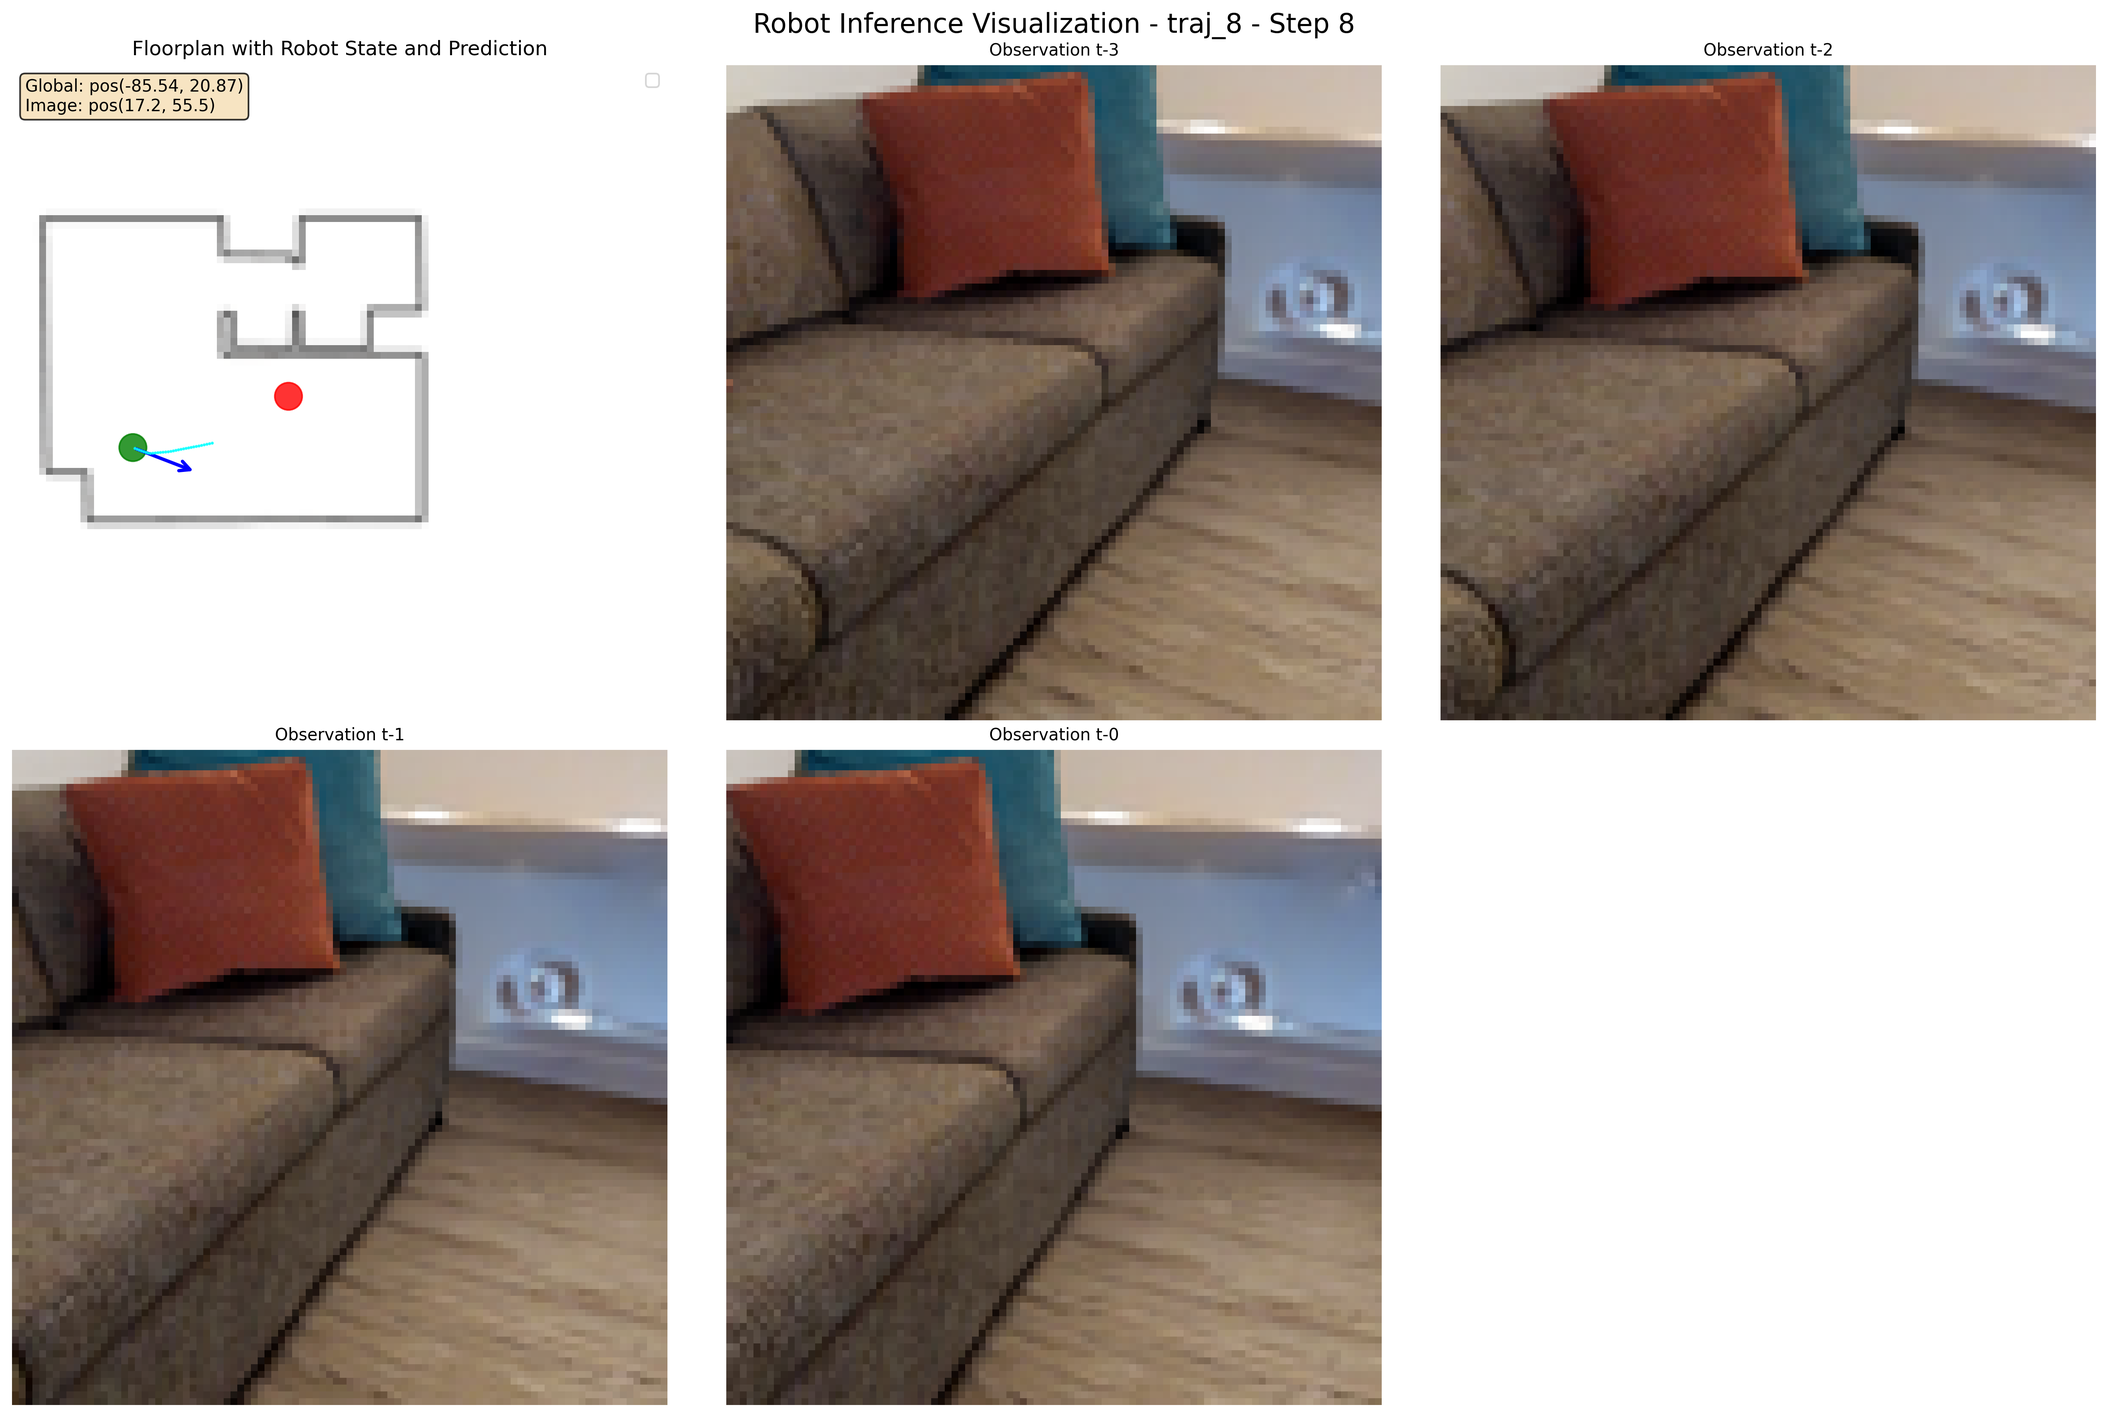
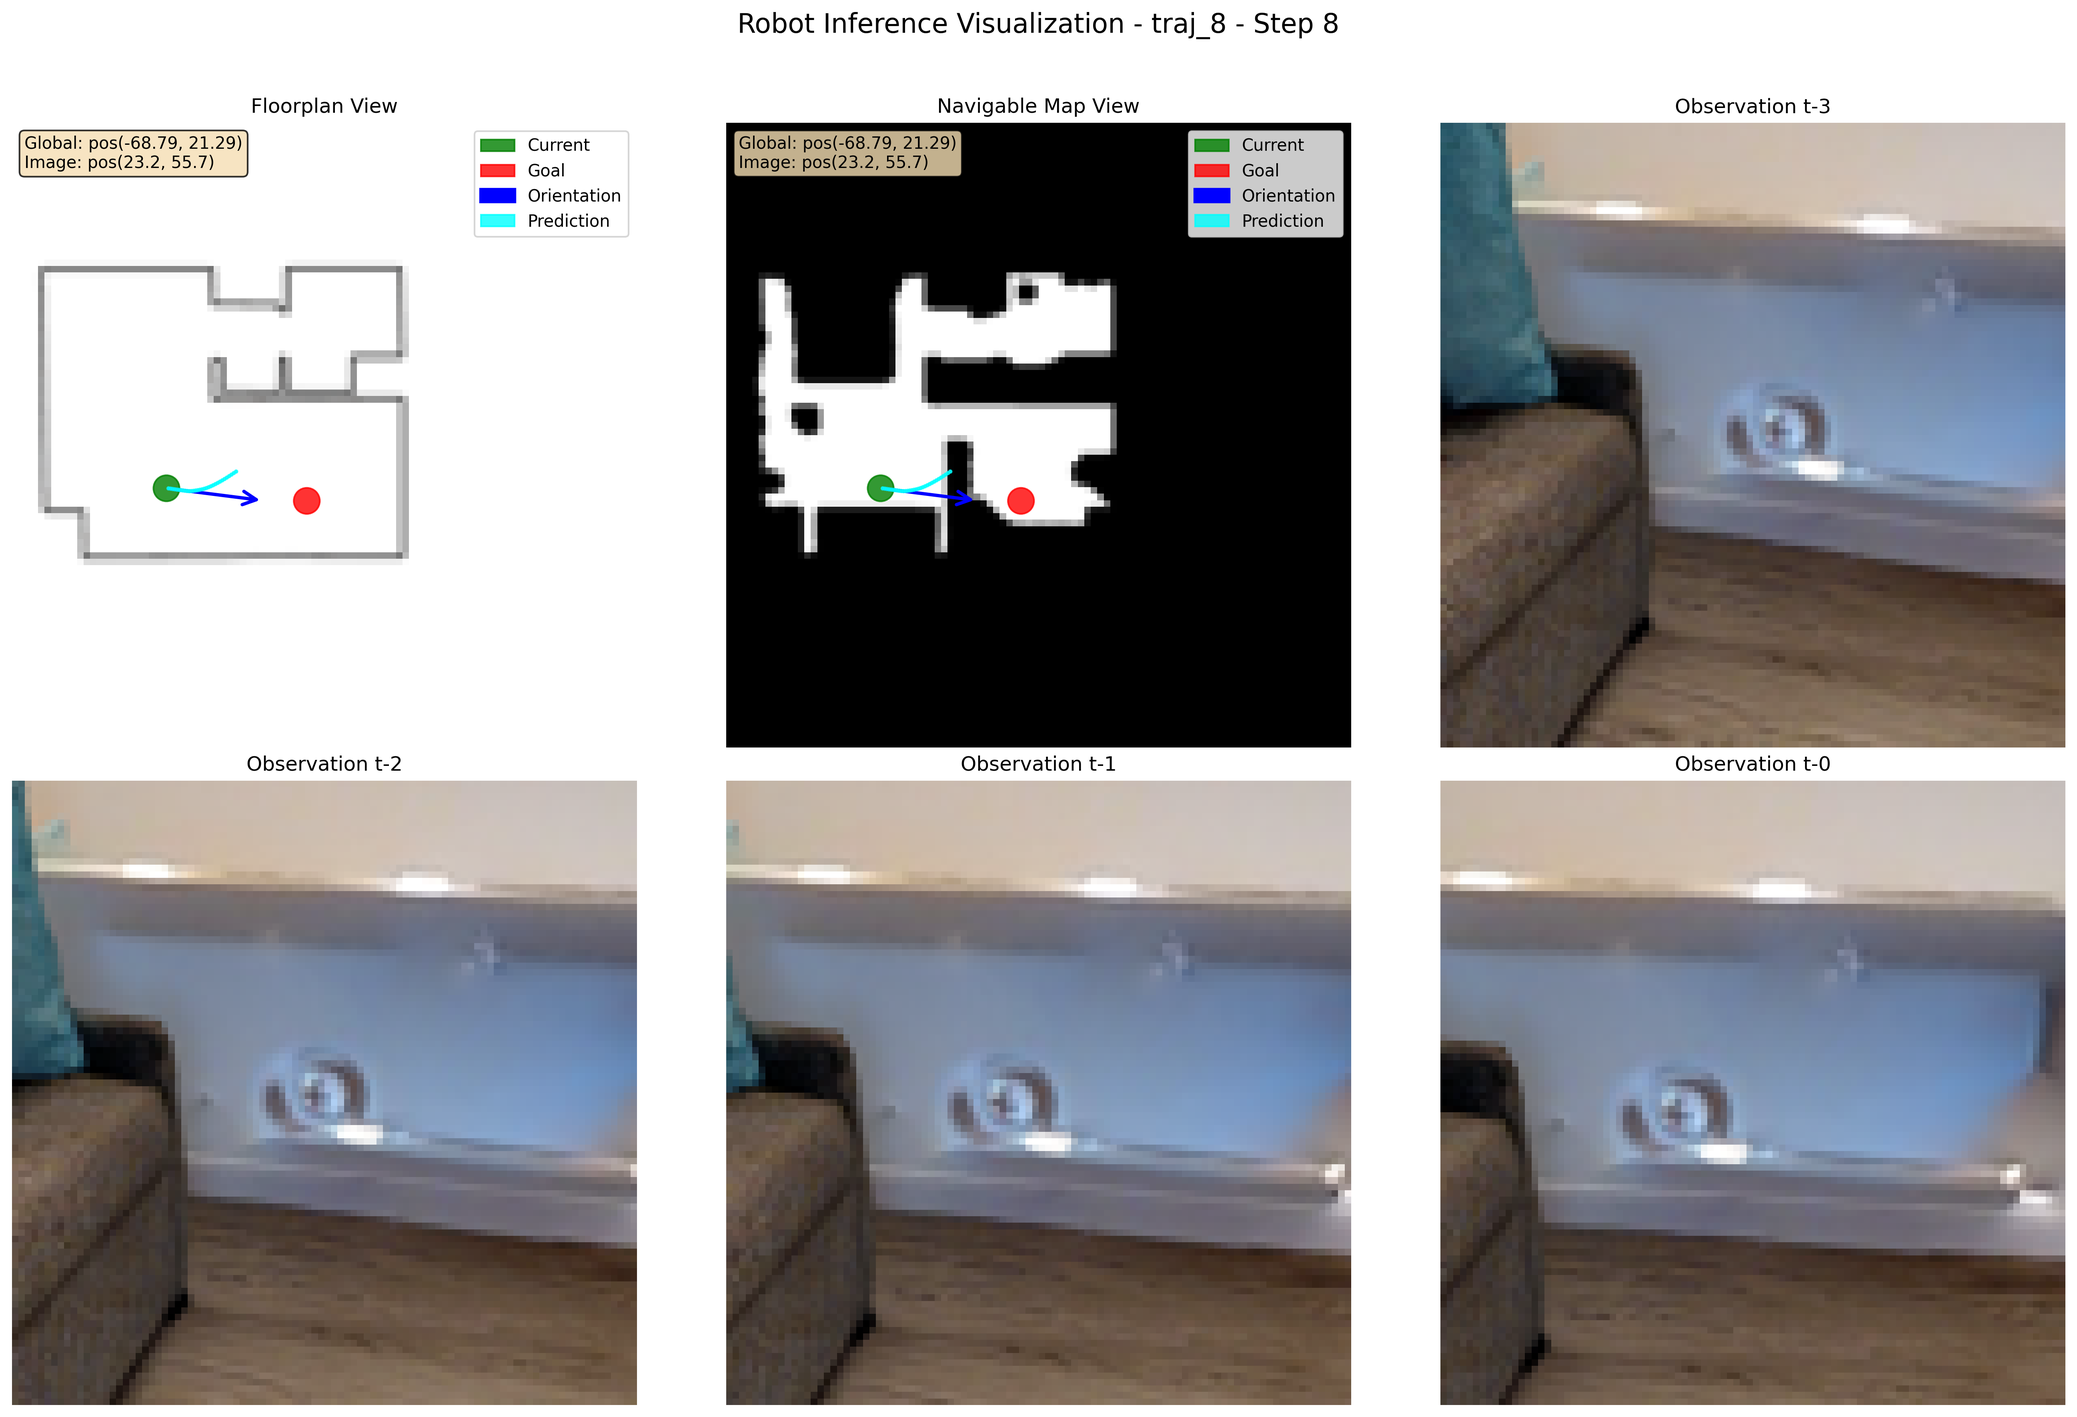
visualize navigable map

diff --git a/test/test_utils.py b/test/test_utils.py
@@ -607,159 +607,172 @@ def visualize_diffusion_action_distribution(
     fig.tight_layout()
     fig.canvas.draw()
     fig.canvas.flush_events()
+import torch
+import numpy as np
+import matplotlib.pyplot as plt
+from matplotlib.patches import Circle, FancyArrowPatch
 
-def visualize_robot_inference_with_coords(cur_pos, goal_pos, cur_ori, cur_pos_resized, 
-                                         goal_pos_resized, cur_ori_resized, floorplan_image, 
-                                         obs_image, predicted_action, trajectory_name, time_step, 
-                                         to_global_coords_func, save_path=None, show_obs=True, cur_shortest_path=None, floor_shapes_ori=None, scene_name=None, image_size=None):
+# 我将你的 transform_trajectory_to_image_coords 函数放在前面，以便整个代码块可以直接运行
+def transform_trajectory_to_image_coords(trajectory_global, ori_size, image_resize_size):
     """
-    可视化机器人推理过程（使用你的坐标转换函数）
+    将全局坐标的轨迹点转换到图像坐标
     
     Args:
-        cur_pos: 当前位置 (全局坐标)
-        goal_pos: 目标位置 (全局坐标)
-        cur_ori: 当前朝向 (全局坐标)
-        cur_pos_resized: 当前位置 (图像坐标)
-        goal_pos_resized: 目标位置 (图像坐标)
-        cur_ori_resized: 当前朝向 (图像坐标)
-        floorplan_image: 地图图像
-        obs_image: 观测图像
-        predicted_action: 预测的动作 (局部坐标)
-        trajectory_name: 轨迹名称
-        time_step: 时间步
-        to_global_coords_func: 你的坐标转换函数
-        save_path: 保存路径
-        show_obs: 是否显示观测图像
+        trajectory_global (np.ndarray): 全局坐标的轨迹点 [N, 2]
+        ori_size (float): 原始图像尺寸
+        image_resize_size (Tuple[int, int]): 调整后的图像尺寸 [width, height]
+    
+    Returns:
+        np.ndarray: 图像坐标的轨迹点 [N, 2]
     """
+    w0 = h0 = ori_size
+    # 第一步：全局坐标转换到原始图像像素坐标
+    trajectory_pixel = trajectory_global * 100 + np.array([w0 / 2, h0 / 2])
+    # 第二步：缩放到调整后的图像尺寸
+    trajectory_resized = trajectory_pixel * image_resize_size[0] / w0
+    return trajectory_resized
+
+def visualize_robot_inference_with_coords(cur_pos, goal_pos, cur_ori, cur_pos_resized, 
+                                        goal_pos_resized, cur_ori_resized, floorplan_image, 
+                                        navigable_map_image=None,
+                                        obs_image=None, predicted_action=None, trajectory_name=None, time_step=None, 
+                                        save_path=None, show_obs=True, floor_shapes_ori=None, 
+                                        scene_id=None, scene_floor=None, image_size=None):
+    """
+    可视化机器人推理过程，可同时显示 floorplan 和 navigable map。
+    """
+    scene_name = f"{scene_id}_{scene_floor}"
     
-    # 创建子图
+    has_nav_map = navigable_map_image is not None
+    
+    # --- 1. 创建子图布局 ---
     if show_obs and obs_image is not None:
+        # 如果显示观测图，创建一个 2x3 的网格
+        # axes[0,0] 用于 floorplan, axes[0,1] 用于 navigable_map
         fig, axes = plt.subplots(2, 3, figsize=(18, 12))
-        fig.suptitle(f'Robot Inference Visualization - {trajectory_name} - Step {time_step}', fontsize=16)
-        main_ax = axes[0, 0]
+        floorplan_ax = axes[0, 0]
+        nav_ax = axes[0, 1] if has_nav_map else None # 如果有nav map，则指定它的绘图区
     else:
-        fig, main_ax = plt.subplots(1, 1, figsize=(12, 10))
-        fig.suptitle(f'Robot Inference Visualization - {trajectory_name} - Step {time_step}', fontsize=16)
-    
-    # 处理地图图像
-    if isinstance(floorplan_image, torch.Tensor):
-        if floorplan_image.dim() == 4:  # [B, C, H, W]
-            floorplan_np = floorplan_image[0].permute(1, 2, 0).cpu().numpy()
-        elif floorplan_image.dim() == 3:  # [C, H, W]
-            floorplan_np = floorplan_image.permute(1, 2, 0).cpu().numpy()
+        # 如果不显示观测图，根据地图数量创建 1x1 或 1x2 的网格
+        num_maps = 2 if has_nav_map else 1
+        fig, axes = plt.subplots(1, num_maps, figsize=(9 * num_maps, 8))
+        if num_maps == 1:
+            floorplan_ax = axes
+            nav_ax = None
         else:
-            floorplan_np = floorplan_image.cpu().numpy()
-    else:
-        floorplan_np = floorplan_image
+            floorplan_ax = axes[0]
+            nav_ax = axes[1]
+
+    fig.suptitle(f'Robot Inference Visualization - {trajectory_name} - Step {time_step}', fontsize=16)
     
-    # 归一化图像到 [0, 1]
-    if floorplan_np.max() > 1.0:
-        floorplan_np = floorplan_np / 255.0
-    
-    main_ax.imshow(floorplan_np)
-    
-    # 使用已经转换好的图像坐标
+    # --- 预处理坐标和轨迹 (只计算一次) ---
     cur_pos_img = cur_pos_resized
     goal_pos_img = goal_pos_resized
     
-    # 绘制当前位置（绿色圆圈）
-    current_circle = Circle(cur_pos_img, radius=2, color='green', alpha=0.8)
-    main_ax.add_patch(current_circle)
-    # main_ax.text(cur_pos_img[0], cur_pos_img[1]-15, 'Current', 
-    #             ha='center', va='top', color='black', fontweight='bold', fontsize=12)
+    trajectory_img_coords = None
+    if predicted_action is not None:
+        action_np = predicted_action.cpu().numpy() if isinstance(predicted_action, torch.Tensor) else np.array(predicted_action)
+        trajectory_img_coords = transform_trajectory_to_image_coords(action_np, floor_shapes_ori[scene_name], image_size)
+
+    # --- 2. 处理和绘制 Floorplan Map ---
+    # a. 处理图像
+    if isinstance(floorplan_image, torch.Tensor):
+        if floorplan_image.dim() == 4: floorplan_np = floorplan_image[0].permute(1, 2, 0).cpu().numpy()
+        elif floorplan_image.dim() == 3: floorplan_np = floorplan_image.permute(1, 2, 0).cpu().numpy()
+        else: floorplan_np = floorplan_image.cpu().numpy()
+    else:
+        floorplan_np = np.array(floorplan_image)
+    if floorplan_np.max() > 1.0: floorplan_np = floorplan_np / 255.0
     
-    # 绘制目标位置（红色圆圈）
-    goal_circle = Circle(goal_pos_img, radius=2, color='red', alpha=0.8)
-    main_ax.add_patch(goal_circle)
-    # main_ax.text(goal_pos_img[0], goal_pos_img[1]-15, 'Goal',     
-    #             ha='center', va='top', color='black', fontweight='bold', fontsize=12)
+    # b. 在 floorplan_ax 上绘制所有元素
+    floorplan_ax.imshow(floorplan_np)
+    floorplan_ax.add_patch(Circle(cur_pos_img, radius=2, color='green', alpha=0.8, label='Current'))
+    floorplan_ax.add_patch(Circle(goal_pos_img, radius=2, color='red', alpha=0.8, label='Goal'))
     
-    # 绘制机器人朝向（箭头）
-    arrow_length = 10
+    arrow_length = 15
     ori_angle = np.arctan2(cur_ori[1] - cur_pos[1], cur_ori[0] - cur_pos[0])
-    # if isinstance(cur_ori, np.ndarray) and cur_ori.size > 0:
-    #     if len(cur_ori) == 2:
-    #         # 如果朝向是向量形式，计算角度
-    #         ori_angle = np.arctan2(cur_ori[1] - cur_pos[1], cur_ori[0] - cur_pos[0])
-    #     else:
-    #         ori_angle = cur_ori[0] if cur_ori.ndim > 0 else cur_ori
-    # else:
-    #     ori_angle = cur_ori
-    
     arrow_end_x = cur_pos_img[0] + arrow_length * np.cos(ori_angle)
     arrow_end_y = cur_pos_img[1] + arrow_length * np.sin(ori_angle)
-    
-    orientation_arrow = FancyArrowPatch(
-        cur_pos_img, (arrow_end_x, arrow_end_y),
-        arrowstyle='->', mutation_scale=15, color='blue', linewidth=2
-    )
-    main_ax.add_patch(orientation_arrow)
-    
-    # 绘制预测轨迹
-    if predicted_action is not None:
-        if isinstance(predicted_action, torch.Tensor):
-            action_np = predicted_action.cpu().numpy()
-        else:
-            action_np = np.array(predicted_action)
+    floorplan_ax.add_patch(FancyArrowPatch(cur_pos_img, (arrow_end_x, arrow_end_y), arrowstyle='->', mutation_scale=20, color='blue', linewidth=2, label='Orientation'))
 
-
-        trajectory_img_coords  = transform_trajectory_to_image_coords(action_np, floor_shapes_ori[scene_name], image_size)
-        # shortest_path_img_coords = transform_trajectory_to_image_coords(cur_shortest_path, floor_shapes_ori[scene_name], image_size)
-
-        
-        # 绘制轨迹点
+    if trajectory_img_coords is not None:
         for i, point in enumerate(trajectory_img_coords):
-            point_circle = Circle(point, radius=0.1, color='cyan', alpha=0.8)
-            main_ax.add_patch(point_circle)
-        # cur shortest_path
-        # for i, point in enumerate(shortest_path_img_coords):
-        #     point_circle = Circle(point, radius=0.1, color='red', alpha=0.8)
-        #     main_ax.add_patch(point_circle)
-
-                
-    # 添加坐标信息文本
-    info_text = f"Global: pos({cur_pos[0]:.2f}, {cur_pos[1]:.2f})\n"
-    info_text += f"Image: pos({cur_pos_img[0]:.1f}, {cur_pos_img[1]:.1f})"
-    main_ax.text(0.02, 0.98, info_text, transform=main_ax.transAxes, 
-                fontsize=10, verticalalignment='top', 
-                bbox=dict(boxstyle='round', facecolor='wheat', alpha=0.8))
-    
-    main_ax.set_title('Floorplan with Robot State and Prediction')
-    main_ax.axis('off')
-    main_ax.legend()
-    
-    obs_image = torch.stack(obs_image, dim=0)
-    # 显示观测图像序列
-    if show_obs and obs_image is not None and isinstance(axes, np.ndarray):
-        if isinstance(obs_image, torch.Tensor):
-            obs_np = obs_image.cpu().numpy()
+            lbl = 'Prediction' if i == 0 else None
+            floorplan_ax.add_patch(Circle(point, radius=0.2, color='cyan', alpha=0.8, label=lbl))
             
-            if obs_np.ndim == 4:  # [context_size, C, H, W]
-                context_size = min(obs_np.shape[0], 5)
-                positions = [(0,1), (0,2), (1,0), (1,1), (1,2)]
-                
-                for i in range(context_size):
-                    if i < len(positions):
-                        row, col = positions[i]
-                        ax = axes[row, col]
-                        obs_img = obs_np[i].transpose(1, 2, 0)
-                        if obs_img.max() > 1.0:
-                            obs_img = obs_img / 255.0
-                        ax.imshow(obs_img)
-                        ax.set_title(f'Observation t-{context_size-1-i}', fontsize=10)
-                        ax.axis('off')
-                
-                # 隐藏未使用的子图
-                for i in range(context_size, len(positions)):
-                    row, col = positions[i]
-                    axes[row, col].axis('off')
+    info_text = f"Global: pos({cur_pos[0]:.2f}, {cur_pos[1]:.2f})\nImage: pos({cur_pos_img[0]:.1f}, {cur_pos_img[1]:.1f})"
+    floorplan_ax.text(0.02, 0.98, info_text, transform=floorplan_ax.transAxes, fontsize=10, verticalalignment='top', bbox=dict(boxstyle='round', facecolor='wheat', alpha=0.8))
     
-    plt.tight_layout()
+    floorplan_ax.set_title('Floorplan View')
+    floorplan_ax.axis('off')
+    floorplan_ax.legend()
+
+    # --- 3. 处理和绘制 Navigable Map (如果存在) ---
+    if has_nav_map and nav_ax is not None:
+        # a. 处理图像 (逻辑和上面完全一样)
+        if isinstance(navigable_map_image, torch.Tensor):
+            if navigable_map_image.dim() == 4: nav_map_np = navigable_map_image[0].permute(1, 2, 0).cpu().numpy()
+            elif navigable_map_image.dim() == 3: nav_map_np = navigable_map_image.permute(1, 2, 0).cpu().numpy()
+            else: nav_map_np = navigable_map_image.cpu().numpy()
+        else:
+            nav_map_np = np.array(navigable_map_image)
+        if nav_map_np.max() > 1.0: nav_map_np = nav_map_np / 255.0
+
+        # b. 在 nav_ax 上绘制所有元素 (逻辑和上面完全一样)
+        nav_ax.imshow(nav_map_np, cmap='gray')
+        nav_ax.add_patch(Circle(cur_pos_img, radius=2, color='green', alpha=0.8, label='Current'))
+        nav_ax.add_patch(Circle(goal_pos_img, radius=2, color='red', alpha=0.8, label='Goal'))
+        nav_ax.add_patch(FancyArrowPatch(cur_pos_img, (arrow_end_x, arrow_end_y), arrowstyle='->', mutation_scale=20, color='blue', linewidth=2, label='Orientation'))
+
+        if trajectory_img_coords is not None:
+            for i, point in enumerate(trajectory_img_coords):
+                lbl = 'Prediction' if i == 0 else None
+                nav_ax.add_patch(Circle(point, radius=0.2, color='cyan', alpha=0.8, label=lbl))
+
+        nav_ax.text(0.02, 0.98, info_text, transform=nav_ax.transAxes, fontsize=10, verticalalignment='top', bbox=dict(boxstyle='round', facecolor='wheat', alpha=0.8))
+
+        nav_ax.set_title('Navigable Map View')
+        nav_ax.axis('off')
+        nav_ax.legend()
     
-    # 保存或显示
+    # --- 4. 显示观测图像序列 ---
+    if show_obs and obs_image is not None:
+        obs_stack = torch.stack(obs_image, dim=0)
+        obs_np_all = obs_stack.cpu().numpy()
+        
+        # 定义 obs 的显示位置，避开地图用的位置
+        positions = [(0, 2), (1, 0), (1, 1), (1, 2)] 
+        # 如果 navigable map 不存在，可以多用一个位置
+        if not has_nav_map:
+            positions.insert(0, (0, 1))
+
+        context_size = min(obs_np_all.shape[0], len(positions))
+        
+        for i in range(context_size):
+            row, col = positions[i]
+            ax = axes[row, col]
+            obs_img = obs_np_all[i].transpose(1, 2, 0)
+            if obs_img.max() > 1.0: obs_img /= 255.0
+            ax.imshow(obs_img)
+            ax.set_title(f'Observation t-{context_size-1-i}')
+            ax.axis('off')
+            
+        # 隐藏所有未使用的子图
+        all_used_axes = {floorplan_ax}
+        if nav_ax: all_used_axes.add(nav_ax)
+        for i in range(context_size):
+            all_used_axes.add(axes[positions[i][0], positions[i][1]])
+        
+        for ax in axes.flatten():
+            if ax not in all_used_axes:
+                ax.axis('off')
+
+    plt.tight_layout(rect=[0, 0, 1, 0.96])
+    
+    # --- 5. 保存或显示 ---
     if save_path:
         plt.savefig(save_path, dpi=300, bbox_inches='tight')
-        print(f"Visualization saved to {save_path}")
+        # print(f"Visualization saved to {save_path}")
     else:
         plt.show()
     
@@ -833,3 +846,4 @@ def img_to_data_and_point_transfer(
     resize_img = TF.to_tensor(img)
 
     return resize_img, cur_pos_in_resizeSize, goal_pos_in_resizeSize, cur_ori_in_resizeSize
+

diff --git a/test/run_flona_new.py b/test/run_flona_new.py
@@ -145,6 +145,10 @@ def main(headless=False, num_episodes=10, num_steps=200, scene_config_path=None,
         
                 # visualize_diffusion_action_distribution(actions_abs, actions_local, goal_pos_abs, goal_pos_local, global_ori, ground_truth_dist, model_output_dist, obs_np)
                 
+                # load navigable map
+                navigable_map_path = os.path.join(f"iGibson/igibson/data/g_dataset/{scene_config['scene_id']}", f"floor_trav_{scene_config['floor_num']}_v3.png")
+                navigable_map = Image.open(navigable_map_path)
+                navigable_map = navigable_map.resize((96, 96))
                 visualize_robot_inference_with_coords(
                     cur_pos=agent.obs_pos,
                     goal_pos=agent.goal_pos,
@@ -157,13 +161,14 @@ def main(headless=False, num_episodes=10, num_steps=200, scene_config_path=None,
                     predicted_action=actions_meter_global,
                     trajectory_name=f'traj_{step}',
                     time_step=step,
-                    to_global_coords_func=to_global_coords,  # 使用你的函数
                     save_path=os.path.join(viz_dir, f"episode_{episode}, inference_step_{step}.png"),
                     show_obs=True,
                     # cur_shortest_path=cur_shortest_path_xy,
                     floor_shapes_ori=floor_shapes_ori,
-                    scene_name=scene_name,
-                    image_size=image_size
+                    scene_id=scene_config["scene_id"],
+                    scene_floor=scene_config["floor_num"],
+                    image_size=image_size,
+                    navigable_map_image=navigable_map
                 )
             # directly set robot to goal point
             
